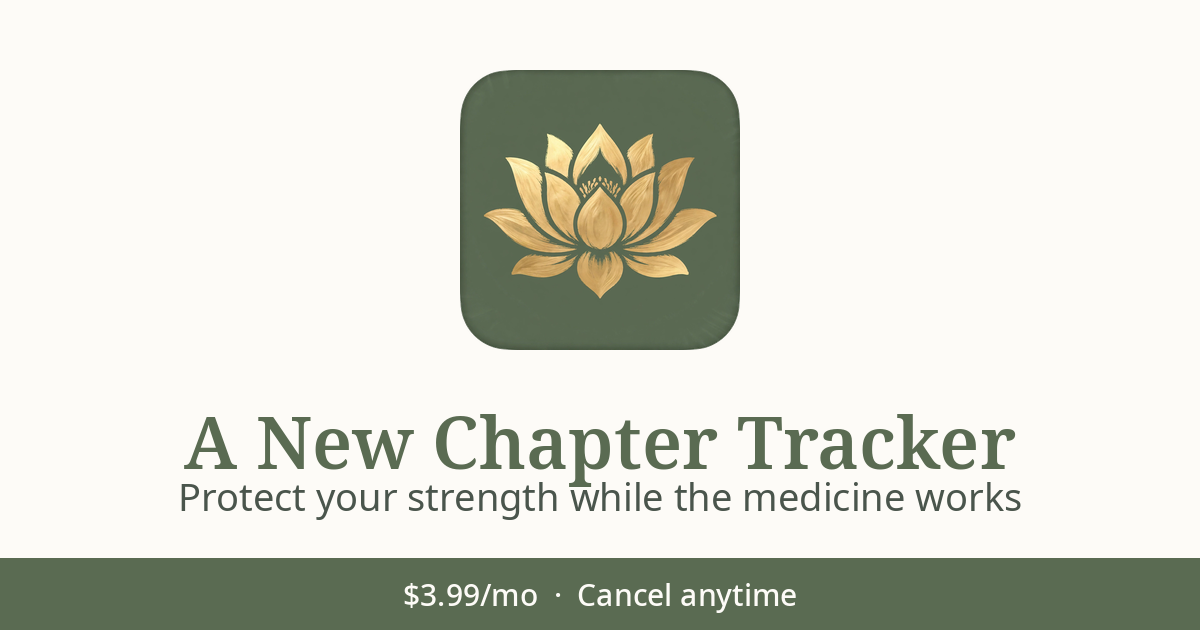
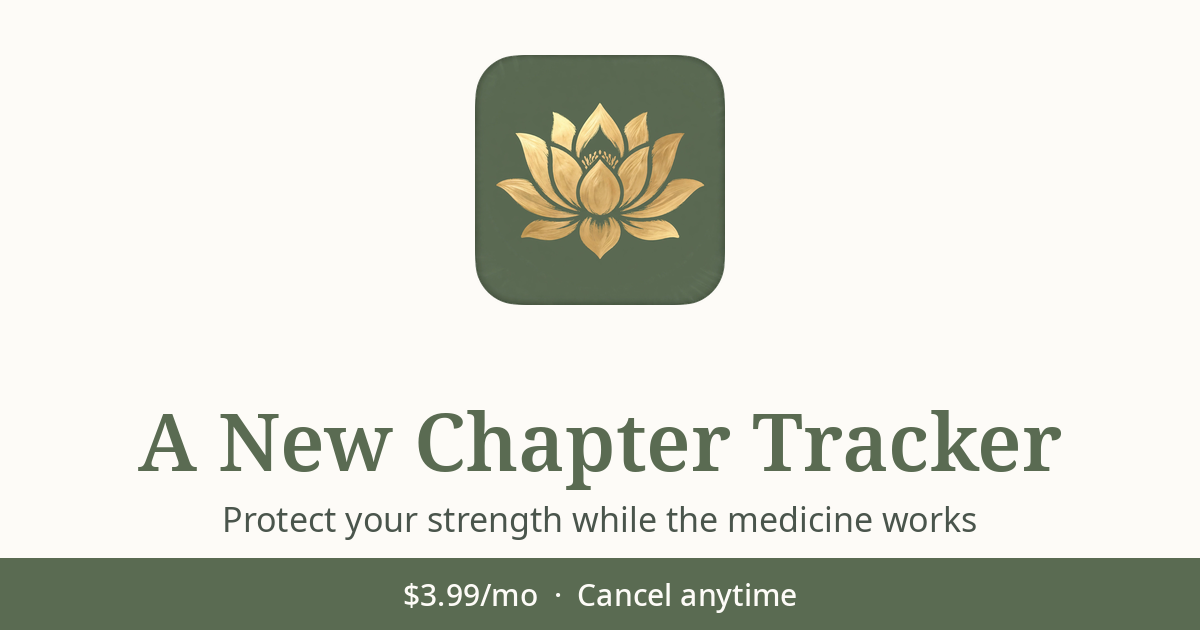
Tracker OG: fixed title/tagline spacing; add og:image dimension tags

Changed region(s): [[0.0925, 0.6333, 0.8942, 0.8444], [0.37, 0.0603, 0.6167, 0.573]]

diff --git a/tracker/index.html b/tracker/index.html
@@ -11,6 +11,8 @@
 <meta property="og:title" content="A New Chapter Tracker">
 <meta property="og:description" content="The GLP-1 coach for women over 50 on Zepbound, Wegovy, Ozempic, and Mounjaro. Injection calendar, AI coach with memory, weight milestones, water, protein, and monthly reviews.">
 <meta property="og:image" content="https://millrjess.github.io/tracker/assets/og-image.png">
+<meta property="og:image:width" content="1200">
+<meta property="og:image:height" content="630">
 <meta property="og:url" content="https://millrjess.github.io/tracker/">
 <meta property="og:type" content="website">
 <meta name="twitter:card" content="summary_large_image">
